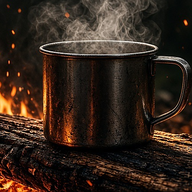
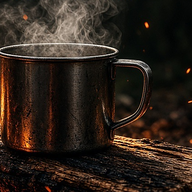
Season, pressures, and leading-through-it guidance

diff --git a/js/content.js b/js/content.js
@@ -79,7 +79,9 @@ window.WEAK=[
 
 window.LOVE=[["acts","Practical help with her load"],["time","Undivided time together"],["listen","Being listened to"],["touch","Non-sexual affection"],["thought","Thoughtful gestures (remembering details)"],["rest","Being given rest / time alone"],["plans","You taking initiative / planning"],["faith","Praying and reading together"]];
 window.STRESS=[["house","Housework piling up"],["kids","Kids' needs"],["money","Money"],["work","Her job"],["health","Health / tiredness"],["family","Extended family"],["conflict","Tension between you"],["schedule","Overfull schedule"]];
-window.SEASON=[["ordinary","Ordinary season"],["newlywed","Newlywed (first 2 years)"],["kids","Young children at home"],["pregnant","Pregnant / postpartum"],["teens","Teens at home"],["empty","Empty nest"],["caregiving","Caring for a parent or relative"],["grief","Grief, illness or hardship"],["career","Demanding work season"]];
+window.SEASON=[["ordinary","Steady / ordinary"],["newlywed","Newlyweds"],["kids","Young kids"],["pregnant","Pregnancy / postpartum"],["teens","Teens at home"],["empty","Empty nest"],["career","Career climb"],["caregiving","Caring for parents"],["grief","Loss / grief"],["recovery","Recovery / rebuilding"]];
+// Pressures: [id,label,default size,alias tag,verse ref (existing ESV only)]
+window.PRESSURE=[["money","Money stress","major","money","Phil 4:6-7"],["debt","Debt","major","money","1 Pet 5:7"],["job","Job loss / overwork","major","work","Matt 11:28"],["health","Health","major","health","1 Pet 3:7"],["kids","Kids","major","kids","Gal 6:9"],["family","Extended family","major","family","Rom 12:18"],["grief","Grief","major","grief","Rom 12:15"],["move","Moving","major","overwhelm","Lam 3:22-23"],["house","House repair","major","house","Mk 10:45"],["car","Car / engine trouble","major","acts","Mk 10:45"],["schedule","Schedule collisions","minor","schedule","Prov 21:5"],["commute","Commute","minor","stress","Gal 6:9"],["chores","Chores piling up","minor","house","Mk 10:45"],["appliance","Broken appliance","minor","house","Gal 6:9"],["sleep","Poor sleep","minor","rest","Matt 11:28"]];
 
 // Assignments: title|posture|why|act|step;step;step|reflection|tags
 // posture: E=Empathy H=Humility S=Selflessness. {her}=wife's name.
@@ -180,4 +182,40 @@ Read to Her|E|Shared words can be shared hearts.|Read a short passage of Scriptu
 Celebrate a Win of Hers|E|Rejoice with those who rejoice.|Find a recent success of hers and celebrate it with a concrete gesture - a special meal or outing you plan.|Ask about a recent win;Plan a gesture around it;Make it about her|Did I minimize her success?|thought,plans,pride,cold
 Remove a Trigger|S|Love removes stumbling blocks.|Fix one habit of yours that you know irritates her.|Ask her or recall it;Change it today;Keep it up this week|Will I keep it up?|selfish,stubborn,unreliable,pride
 Pray Over the Home|H|Spiritual leadership begins in private.|Walk through the house and pray for her and each family member.|Pray in each room;Pray for the person in that space;Ask God to make you a servant|Did this change how I saw my home?|faith,passive,anger,gloom
+Carry the Money Worry|S|A worry carried together weighs less, and carried by you it weighs less still.|Take over the bills review tonight so she is not holding the numbers alone.|Gather statements and sit down alone first;Write one plain page: what comes in, what is due, what is left;Tell her calmly what you have handled and ask nothing of her tonight|Did I handle it calmly, or did my worry spill onto her?|p-money,money,anxiety,acts,plans
+Name the Debt Plan|H|Honesty about the number is the first step out from under it.|Write down every debt and choose one next payment, then share it without blame.|List each debt with balance and due date;Choose one concrete next step;Present it gently - no blame, no past mistakes|Did I hide or minimize anything? What did honesty cost me?|p-debt,money,honesty,plans,passive
+Take the Work Weight|S|Her load shouldn't grow because yours did.|On a heavy work week, take the evening home duties so she gets the margin.|Ask what she most needs off her plate tonight;Cook, clean up and handle bedtime;Keep your work talk short and your phone away|Was I present or just physically home?|p-job,work,workaholic,kids,acts,schedule
+Leave Work at the Door|H|Your best attention belongs at home first.|Close work before you walk in and give her the first ten minutes of your evening.|Choose a stopping point in the car or at the door;Take three slow breaths and pray;Ask about her day before telling about yours|What did I carry in with me? What did it do to the room?|p-job,workaholic,screens,cold,time,anger
+Take the Health Load|S|Care for the body is care for the person.|Handle the appointments, meals and medicine so she can rest.|Ask which task weighs on her most;Make the calls, schedule or pick up what is needed;Make an easy meal and clear the evening|Was I patient with what I cannot fix?|p-health,health,rest,acts,unsympathetic,pregnant
+Take the Evening Shift|S|Tired love still shows up.|Own the whole evening with the kids, from dinner to bedtime.|Start before she has to ask;Handle baths, stories and bedtime;Keep the house calm so she can truly rest|Where did I feel resentment? Where did I find joy?|p-kids,kids,rest,acts,lazy,passive
+Be the Buffer|H|Peace guarded on her behalf is real strength.|Handle one hard family conversation or request so it doesn't land on her.|Ask what is weighing on her about family;Reply or call calmly and kindly yourself;Tell her it is handled and don't vent about them|Did I stay gentle, or did I take offense for her?|p-family,family,conflict,rash,anger,domineer
+Sit With the Loss|E|Presence beats solutions in grief.|Sit beside her tonight and let her talk or be silent, with no fixing.|Turn off the TV and phone;Ask 'What is the hardest part right now?';Say 'I am here' - no advice, no timelines|Did I try to fix? What was it like to just stay?|p-grief,grief,listen,unsympathetic,cold,withdrawn,empathy
+Own the Boxes|S|A move is a hundred small burdens; take the biggest ones.|Take charge of the next moving task completely, from planning to doing.|List what still needs doing and pick the biggest piece;Do it start to finish without asking her to decide;Make sure she has a clear, comfortable place to land tonight|Did I manage the stress or share it?|p-move,overwhelm,plans,acts,passive,disorder
+Handle the Repair|S|A promise to fix it is only love when it gets done.|Take one house repair off her mind by scheduling it or fixing it today.|Name the repair and set a date, in writing;Call or start it yourself;Tell her calmly the plan and when it will be done|Did I put it off? What does that say about me?|p-house,house,lazy,passive,unreliable,plans
+Take the Car Trouble|S|Calm handling of the problem protects her peace.|Take over the car or engine problem completely, and protect her rest while you do.|Ask what she needs to get through the week;Call the shop or tow and sort out rides;Don't vent or blame - report the plan in one calm sentence|Did I stay calm? Did I let her rest?|p-car,acts,anger,rash,rest,schedule
+Clear the Collision|E|Overfull weeks need someone willing to say no for her.|Map this week together and take one conflict off her plate.|Write the week's commitments in one list;Spot the collisions;Take one and say no or reschedule it yourself|Did I add to her load or reduce it?|p-schedule,schedule,plans,passive,overwhelm,time
+Soften the Commute|S|Small friction adds up, so remove it where you can.|Take one errand or drive off her route and arrive home calm.|Ask which stop she would drop;Do it on your way;Use the drive to pray and settle before you walk in|Did I carry the commute home with me?|p-commute,stress,acts,anger,rash
+Clear the Pile|S|Small chores, quietly cleared, say that she is not alone.|Take the chore pile that bothers her most and clear it completely.|Ask or watch what she keeps returning to;Do it start to finish;Leave it and say nothing about it|Did I want thanks for it?|p-chores,house,acts,lazy,selfish,disorder
+Fix It Before She Asks|S|Anticipation is attention in action.|Repair or replace the broken appliance before she has to ask again.|Check what is broken or failing;Order the part, call the repair or fix it today;Tell her the day it will be working|Why did it wait? What would have been different if I had acted sooner?|p-appliance,house,lazy,passive,unreliable
+Guard Her Sleep|S|Rest is a gift she cannot give herself.|Take the first night shift or the morning duties so she can sleep.|Ask what part of the night or morning hurts most;Take it fully tonight;Keep noise down and the room dark|Did I give it freely or keep score?|p-sleep,rest,kids,health,pregnant,selfish
+Keep the Calm in the Storm|H|Your steadiness is part of her shelter.|In a stressful moment, speak slowly and quietly, and handle one problem without raising your voice.|Notice where the stress sits in your body;Pause before every answer;Offer her a next step instead of a complaint|Was I a source of calm or one more weight?|p-money,p-car,p-house,anger,rash,harsh,anxiety
+Give Her the Quiet Hour|E|When life is loud, quiet is a kindness.|On a pressured day, protect an hour of peace for her and ask for nothing.|Ask what would feel restful;Handle the interruptions yourself;Don't fill the quiet with talk about the problem|Did I let her rest without guilt?|p-schedule,p-sleep,p-kids,rest,stress,health
+Pray With Her Over the Pressure|H|Shared burdens brought to God become lighter.|Pray with her, briefly and honestly, about the thing that is weighing most.|Ask what is heaviest right now;Pray out loud, simply, for her and the situation;Ask if there is one practical thing you can do tomorrow|Was it awkward? What was I afraid of?|faith,p-money,p-job,p-health,p-grief,p-family,anxiety,passive
 `.trim().split('\n').map((l,i)=>{const p=l.split('|');return{id:i,title:p[0],posture:{E:'Empathy',H:'Humility',S:'Selflessness'}[p[1]],why:p[2],act:p[3],steps:p[4].split(';'),reflect:p[5],tags:p[6].split(',')}});
+// Leading through it: [steps x3, verse refs] - ESV refs must exist in VERSES
+window.GUIDE={
+money:[["Pray first, then look at the real numbers","Decide one action and tell her calmly","Review it together weekly, not daily"],["Phil 4:6-7","1 Pet 5:7"]],
+debt:[["Face the full number, with no hiding","Choose one plan and own the first payment","Tell her the plan and the date"],["Prov 21:5","1 Pet 5:7"]],
+job:[["Pray over what is yours to decide","Take one next step or set one boundary","Tell her the plan and that she can lean on you"],["Matt 11:28","Phil 4:6-7"]],
+health:[["Pray with her, simply and out loud","Take the next step: the call, the plan, the meal","Ask what she needs; don't assume"],["1 Pet 3:7","1 Pet 5:7"]],
+kids:[["Decide one rule and back it together","Take the hard conversation yourself, calmly","Pray for each child by name"],["Gal 6:9","Prov 15:1"]],
+family:[["Decide what you will say, then say it kindly","Stand between her and the criticism","Pray for them; leave resentment out"],["Rom 12:18","Prov 15:1"]],
+grief:[["Be near her and say little","Let her set the pace","Pray briefly, out loud, with her"],["Rom 12:15","Ps 42:11"]],
+move:[["Put the tasks in order and decide","Carry the heavy decisions yourself","Make one room peaceful first"],["Lam 3:22-23","Prov 21:5"]],
+house:[["Name the repair and set a date","Stay calm if it costs more than hoped","Tell her the plan and keep it"],["Prov 21:5","Mk 10:45"]],
+car:[["Take the call and make the decision","Keep your voice low and your words few","Make sure she has a ride and can rest"],["Prov 15:1","Mk 10:45"]],
+schedule:[["Write the week on one page","Decide what drops, and take that on yourself","Tell her what you took off"],["Prov 21:5"]],
+commute:[["Pray on the drive and settle your heart","Arrive calm and greet her first","Take one trip or errand off her route"],["Jas 1:19-20"]],
+chores:[["Pick the one pile that bothers her most","Do it unasked and finish it","Keep no score"],["Mk 10:45","Gal 6:9"]],
+appliance:[["Decide today: repair or replace","Handle the cost without complaint","Tell her the day it will work"],["Prov 21:5"]],
+sleep:[["Take the first night shift or the early morning","Keep the house dark and quiet","End the day with prayer together"],["Matt 11:28","1 Pet 5:7"]]};

diff --git a/js/app.js b/js/app.js
@@ -1,6 +1,7 @@
 (function(){
 const KEY='thewarmup.v1';try{if(!localStorage.getItem(KEY)){for(const o of ['lovelessons.v1','lovework.v1','loveher.v1','hfh.v1']){const v=localStorage.getItem(o);if(v){localStorage.setItem(KEY,v);break}}}['lovelessons.v1','lovework.v1','loveher.v1','hfh.v1'].forEach(o=>localStorage.removeItem(o))}catch(e){}
 const S=Object.assign({answers:{},weak:[],weakOther:'',her:{},log:{},license:null,started:false},JSON.parse(localStorage.getItem(KEY)||'{}'));
+if(!Array.isArray(S.her.pressures))S.her.pressures=[];S.her.pressures=S.her.pressures.filter(p=>p&&PRESSURE.some(x=>x[0]===p.k));
 const save=()=>localStorage.setItem(KEY,JSON.stringify(S));
 const $=s=>document.querySelector(s), app=$('#app');
 const esc=s=>String(s??'').replace(/[&<>"']/g,c=>({'&':'&amp;','<':'&lt;','>':'&gt;','"':'&quot;',"'":'&#39;'}[c]));
@@ -21,8 +22,13 @@ function hash(s){let h=2166136261;for(const c of s)h=Math.imul(h^c.charCodeAt(0)
 function pick(date){
  const sc=scores();const weak=new Set(S.weak.length?S.weak:suggested(sc));const love=new Set(S.her.love||[]),stress=new Set(S.her.stress||[]);const season=S.her.season;
  const recent=new Set(Object.entries(S.log).filter(([d])=>d<date).sort().slice(-30).map(([,v])=>v.aid));
+ const press=activePressures();
  let best=null,bs=-1e9;for(const a of ASSIGN_SRC){let s=0;for(const t of a.tags){if(weak.has(t))s+=3;if(love.has(t))s+=2;if(stress.has(t))s+=2;if(t===season)s+=3}
+  for(const p of press){if(a.tags.includes('p-'+p.k))s+=p.wt;else if(a.tags.includes(p.alias))s+=p.wt/2}
   if(recent.has(a.id))s-=50;s+=(hash(date+a.id)%100)/40;if(s>bs){bs=s;best=a}}return best}
+const WEEK=7*864e5;
+function activePressures(){return (S.her.pressures||[]).map(p=>{const d=PRESSURE.find(x=>x[0]===p.k),fresh=p.w!=='week'||Date.now()-(p.at||0)<WEEK;return{k:p.k,alias:d[3],wt:(p.w==='week'?(fresh?5:2):3)+(p.s==='major'?1:0)}})}
+function dayPressure(a){const ps=S.her.pressures||[];const p=ps.filter(p=>a.tags.includes('p-'+p.k)).sort((x,y)=>(y.w==='week')-(x.w==='week'))[0];return p&&PRESSURE.find(x=>x[0]===p.k)}
 function dayRec(date){if(!S.log[date]){S.log[date]={aid:pick(date).id,done:false};save()}return S.log[date]}
 function streak(){let n=0;const d=new Date();if(!(S.log[today()]||{}).done)d.setDate(d.getDate()-1);for(;;){const k=d.toISOString?fmt(d):'';if(S.log[k]&&S.log[k].done){n++;d.setDate(d.getDate()-1)}else break}return n}
 function fmt(d){return d.getFullYear()+'-'+String(d.getMonth()+1).padStart(2,'0')+'-'+String(d.getDate()).padStart(2,'0')}
@@ -51,11 +57,15 @@ V.weak=()=>{const sc=scores();const sug=suggested(sc);if(!S.weakInit&&sc){S.weak
  <h2>In your own words</h2><textarea id="weakOther" placeholder="Anything else you know you need to work on...">${esc(S.weakOther)}</textarea>
  <p>${verse('Ps 139:23-24')}</p><a class="btn full" href="#her">Next: Know Her</a>`};
 const chkList=(name,list,sel)=>list.map(([k,l])=>`<label class="chk"><input type="checkbox" name="${name}" value="${k}" ${(sel||[]).includes(k)?'checked':''}>${esc(l)}</label>`).join('');
-V.her=()=>{const h=S.her;return `<h1>Know Her</h1><p>Your wife doesn't need the app. Fill in what you know; if you're unsure, ask her. That conversation is part of loving her.</p>
+const pressRow=p=>{const d=PRESSURE.find(x=>x[0]===p.k);const seg=(g,opts)=>`<div class="seg">${opts.map(([v,l])=>`<button type="button" data-g="${g}" data-v="${v}" class="${p[g]===v?'on':''}">${l}</button>`).join('')}</div>`;
+ return `<div class="prow" data-k="${p.k}"><b>${esc(d[1])}</b><div class="segs">${seg('w',[['week','This week'],['ongoing','Ongoing']])}${seg('s',[['major','Major'],['minor','Minor']])}</div></div>`};
+const pressBox=()=>{const sel=S.her.pressures||[];return `<b>Pressures</b><div class="chips">${PRESSURE.map(d=>`<button type="button" class="chip ${sel.some(p=>p.k===d[0])?'on':''}" data-p="${d[0]}">${esc(d[1])}</button>`).join('')}</div><div id="prows">${sel.map(pressRow).join('')}</div>`};
+V.her=()=>{const h=S.her;return `<h1>Know Her</h1>
 <form id="herf"><div class="card"><label>Her first name<input type="text" name="name" value="${esc(h.name)}"></label></div>
+<div class="card"><label><b>Current season</b><select name="season">${SEASON.map(([k,l])=>`<option value="${k}" ${(h.season||'ordinary')===k?'selected':''}>${l}</option>`).join('')}</select></label></div>
+<div class="card" id="pbox">${pressBox()}</div>
 <div class="card"><b>She feels most loved through...</b>${chkList('love',LOVE,h.love)}</div>
 <div class="card"><b>What stresses her right now</b>${chkList('stress',STRESS,h.stress)}</div>
-<div class="card"><label><b>Current season</b><select name="season">${SEASON.map(([k,l])=>`<option value="${k}" ${h.season===k?'selected':''}>${l}</option>`).join('')}</select></label></div>
 <div class="card"><label><b>Her interests</b><textarea name="interests" placeholder="Gardening, a book series, a sports team, coffee shops...">${esc(h.interests)}</textarea></label>
 <label><b>Her schedule / hardest time of day</b><textarea name="schedule" placeholder="e.g. Mornings with the kids; works Tue/Thu">${esc(h.schedule)}</textarea></label>
 <label><b>What I noticed lately</b><textarea name="notes" placeholder="Things she mentioned, worries, hopes...">${esc(h.notes)}</textarea></label></div>
@@ -66,9 +76,12 @@ V.today=()=>{if(!scores()&&!S.started)return V.welcome();if(locked())return V.un
  <div class="card ${r.done?'done':''}"><div class="posture">Heart posture · ${a.posture}</div><h1>${esc(a.title)}</h1><p class="muted">${esc(a.why)}</p>
  <h2>Today's act for ${esc(n)}</h2><p><b>${esc(a.act)}</b></p><ol class="steps">${a.steps.map(s=>`<li>${esc(s)}</li>`).join('')}</ol>
  ${S.her.interests||S.her.schedule?`<p class="small">Keep in mind: ${esc([S.her.interests,S.her.schedule].filter(Boolean).join(' · '))}</p>`:''}</div>
+ ${leadCards()}
  <div class="card"><h2 style="margin-top:0">Evening reflection</h2><p>${esc(a.reflect)}</p><textarea id="refl" placeholder="Write honestly. Only you will see this.">${esc(r.note)}</textarea>
  <button class="btn full ${r.done?'alt':'rust'}" id="done">${r.done?'Completed ✓ (tap to undo)':'Mark as done'}</button></div>
- ${(()=>{const w=WEAK.find(w=>S.weak.includes(w.id)&&a.tags.includes(w.id));return w?`<div class="card"><span class="tag">${esc(w.name)}</span>${verse(w.v[0])}</div>`:verse('Eph 5:25')})()}`};
+ ${(()=>{const pd=dayPressure(a);if(pd)return `<div class="card"><span class="tag">${esc(pd[1])}</span>${verse(pd[4])}</div>`;const w=WEAK.find(w=>S.weak.includes(w.id)&&a.tags.includes(w.id));return w?`<div class="card"><span class="tag">${esc(w.name)}</span>${verse(w.v[0])}</div>`:verse('Eph 5:25')})()}`};
+function leadCards(){const ps=[...(S.her.pressures||[])].sort((x,y)=>(y.w==='week')-(x.w==='week')||(y.s==='major')-(x.s==='major'));if(!ps.length)return '';
+ return `<div class="lead"><h2>Leading through it</h2>${ps.map((p,i)=>{const d=PRESSURE.find(x=>x[0]===p.k),g=GUIDE[p.k];return `<details class="card" ${i===0?'open':''}><summary><b>${esc(d[1])}</b><span class="tag">${p.w==='week'?'This week':'Ongoing'}</span></summary><ol class="steps">${g[0].map(s=>`<li>${esc(s)}</li>`).join('')}</ol>${g[1].map(verse).join('')}</details>`}).join('')}</div>`}
 V.history=()=>{const ds=Object.keys(S.log).sort().reverse();return `<h1>Completion log</h1><p>Streak: <b>${streak()}</b> · Completed: <b>${ds.filter(d=>S.log[d].done).length}</b> of ${ds.length} days</p>
  ${ds.map(d=>{const r=S.log[d],a=ASSIGN_SRC[r.aid];return `<div class="card ${r.done?'done':''}"><span class="small">${d} ${r.done?'✓ done':'· not done'}</span><br><b>${esc(a.title)}</b>${r.note?`<p class="small">${esc(r.note)}</p>`:''}</div>`}).join('')||'<p class="muted">No days yet.</p>'}`};
 V.unlock=(wall)=>`<h1>${wall?'Your 7 free days are complete':'Unlock full access'}</h1><p>Well done finishing a week. Unlock unlimited daily assignments from the full library of ${ASSIGN_SRC.length}, with a one-time purchase, no subscription.</p>
@@ -90,8 +103,11 @@ function bind(v,arg){
   S.started=true;save();location.hash=p<ITEMS.length/PER-1?'#test/'+(p+1):'#results'};
  app.querySelectorAll('[data-w]').forEach(c=>c.onchange=()=>{const id=c.dataset.w;S.weak=c.checked?[...S.weak,id]:S.weak.filter(x=>x!==id);save();const y=scrollY;route();scrollTo(0,y)});
  const wo=$('#weakOther');if(wo)wo.oninput=()=>{S.weakOther=wo.value;save()};
- const hf=$('#herf');if(hf)hf.onsubmit=e=>{e.preventDefault();const fd=new FormData(hf);S.her={name:fd.get('name').trim(),love:fd.getAll('love'),stress:fd.getAll('stress'),season:fd.get('season'),interests:fd.get('interests'),schedule:fd.get('schedule'),notes:fd.get('notes')};
+ const hf=$('#herf');if(hf)hf.onsubmit=e=>{e.preventDefault();const fd=new FormData(hf);S.her={pressures:S.her.pressures||[],name:fd.get('name').trim(),love:fd.getAll('love'),stress:fd.getAll('stress'),season:fd.get('season'),interests:fd.get('interests'),schedule:fd.get('schedule'),notes:fd.get('notes')};
   const r=S.log[today()];if(r&&!r.done&&!r.note)delete S.log[today()];S.started=true;save();location.hash='#today'};
+const pb=$('#pbox');if(pb){const redraw=()=>{pb.innerHTML=pressBox();bindP()};const bindP=()=>{
+  pb.querySelectorAll('.chip').forEach(c=>c.onclick=()=>{const k=c.dataset.p,L=S.her.pressures,i=L.findIndex(p=>p.k===k);if(i>=0)L.splice(i,1);else L.push({k,w:'week',s:PRESSURE.find(x=>x[0]===k)[2],at:Date.now()});save();redraw()});
+  pb.querySelectorAll('.prow .seg button').forEach(b=>b.onclick=()=>{const p=S.her.pressures.find(p=>p.k===b.closest('.prow').dataset.k);p[b.dataset.g]=b.dataset.v;if(b.dataset.g==='w'&&b.dataset.v==='week')p.at=Date.now();save();redraw()})};bindP()}
  const rf=$('#refl');if(rf)rf.oninput=()=>{S.log[today()].note=rf.value;save()};
  const dn=$('#done');if(dn)dn.onclick=()=>{const r=S.log[today()];r.done=!r.done;r.at=Date.now();save();route()};
  const vf=$('#verify');if(vf)vf.onclick=verifyLicense;

diff --git a/css/style.css b/css/style.css
@@ -20,3 +20,12 @@ nav#tabs a{flex:1;text-align:center;padding:14px 2px;font:600 13px system-ui;col
 .streak{display:flex;gap:12px}.streak div{flex:1;text-align:center}.streak b{display:block;font-size:1.8em;color:var(--green)}
 .done{background:#e6efe8;border-color:#b9cfbf}.hide{display:none}
 header .sub{display:block;color:#f6f1e8;opacity:.8;font-size:.78em;letter-spacing:.3px;margin-top:2px}
+
+.chips{display:flex;flex-wrap:wrap;gap:8px;margin:12px 0 4px}
+.chip{font:600 14px system-ui;padding:9px 14px;border-radius:999px;border:1.5px solid var(--line);background:#fff;color:var(--ink);cursor:pointer}
+.chip.on{background:var(--green);border-color:var(--green);color:#fff}
+.prow{border-top:1px solid var(--line);margin-top:12px;padding-top:12px}.prow>b{display:block;margin-bottom:8px}
+.segs{display:flex;gap:10px;flex-wrap:wrap}.seg{display:inline-flex;border:1.5px solid var(--line);border-radius:999px;overflow:hidden;background:#fff}
+.seg button{font:600 13px system-ui;padding:8px 14px;border:0;background:transparent;color:var(--muted);cursor:pointer}
+.seg button.on{background:var(--rust);color:#fff}
+.lead h2{margin:1.2em 0 .2em}.lead details.card{padding:14px 16px}.lead summary{cursor:pointer;list-style:none;display:flex;justify-content:space-between;align-items:center;gap:8px}.lead summary::-webkit-details-marker{display:none}.lead ol.steps{margin:10px 0 4px;padding-left:20px}
